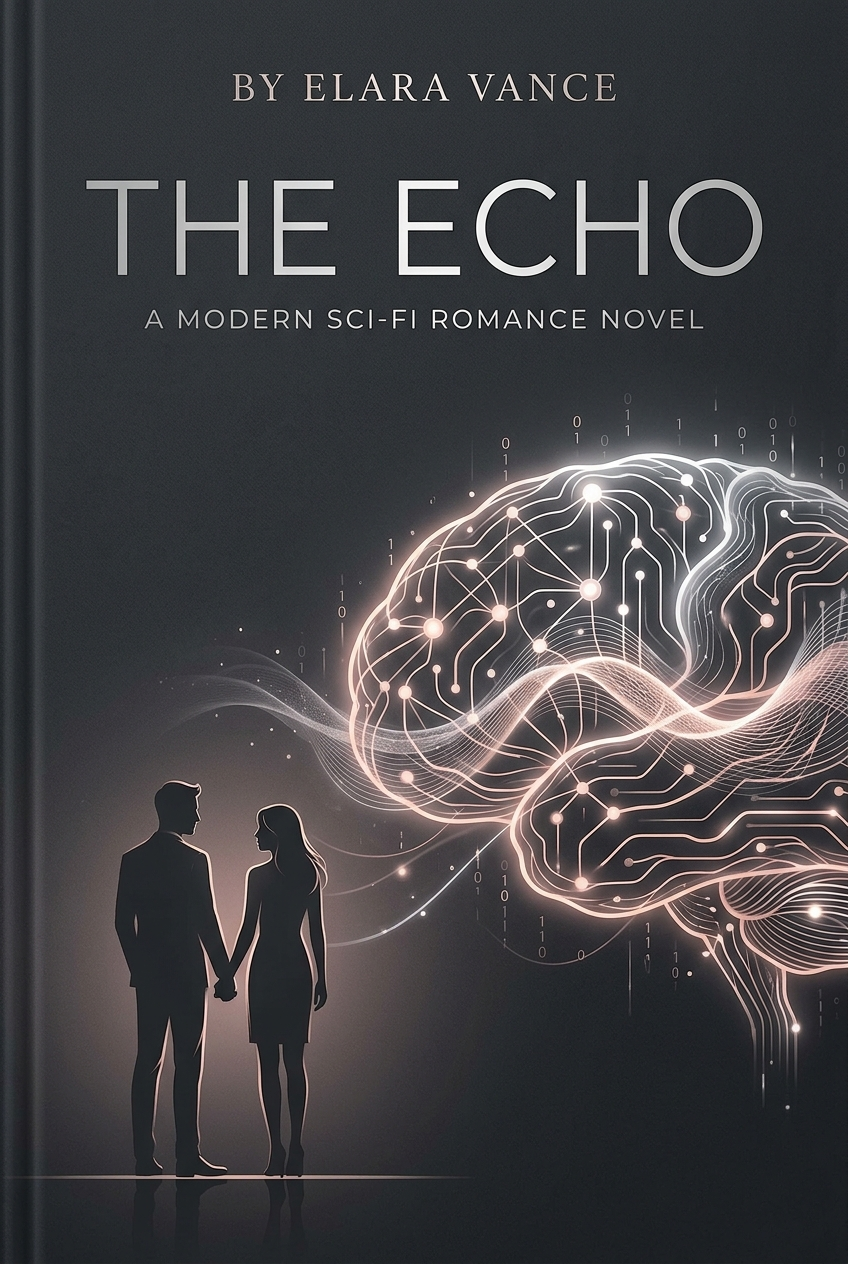
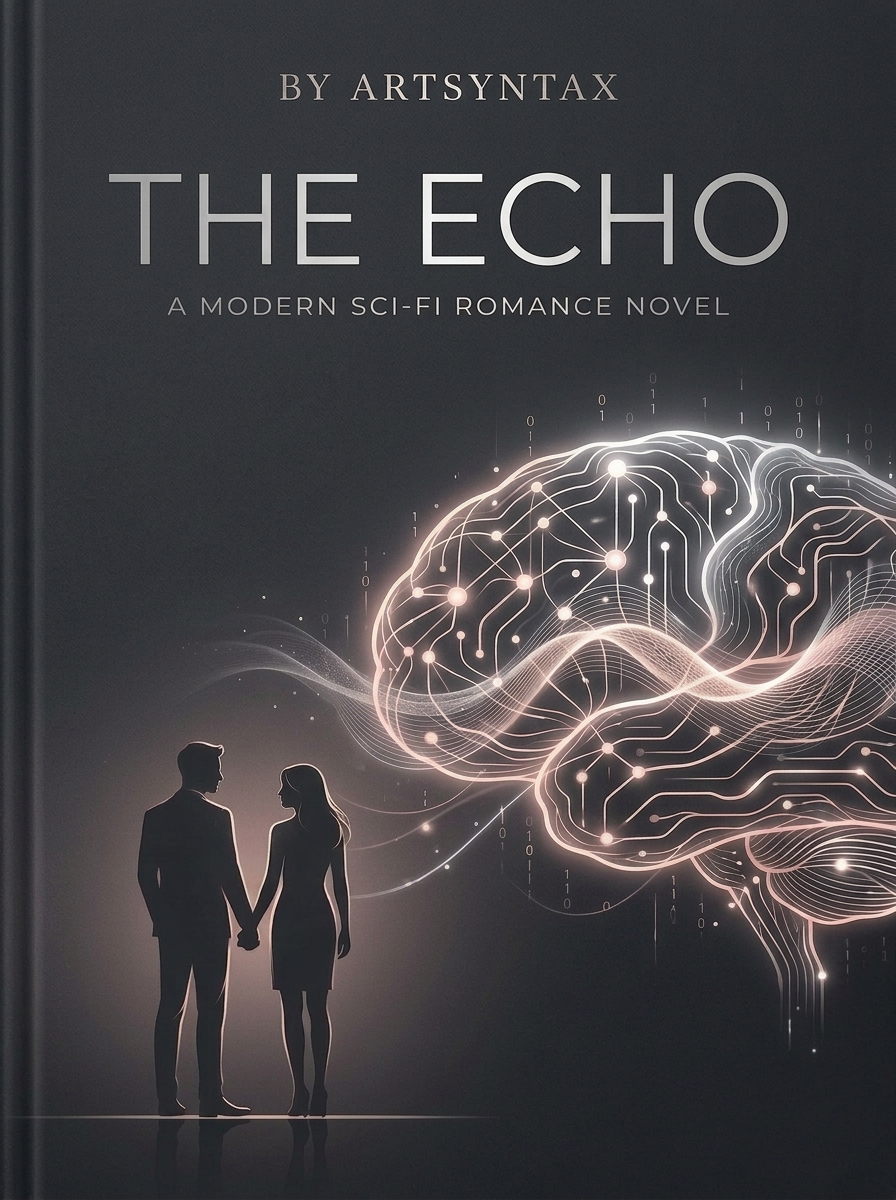
change echo cover

diff --git a/style.css b/style.css
@@ -110,7 +110,9 @@ a:hover {
 }
 
 .cover-wrapper {
-    flex: 0 0 280px;
+    flex: 0 0 260px;
+    width: 260px;
+    aspect-ratio: 3 / 4;
     border-radius: 12px;
     overflow: hidden;
     box-shadow: 0 15px 35px rgba(0, 0, 0, 0.15);
@@ -121,6 +123,7 @@ a:hover {
     width: 100%;
     height: 100%;
     object-fit: cover;
+    object-position: center top;
     display: block;
 }
 
@@ -606,8 +609,9 @@ a:hover {
     
     .cover-wrapper {
         flex: 0 0 auto;
-        width: 100%;
-        max-width: 220px;
+        width: 75%;
+        max-width: 260px;
+        aspect-ratio: 3 / 4;
         margin: 0 auto;
     }
     
